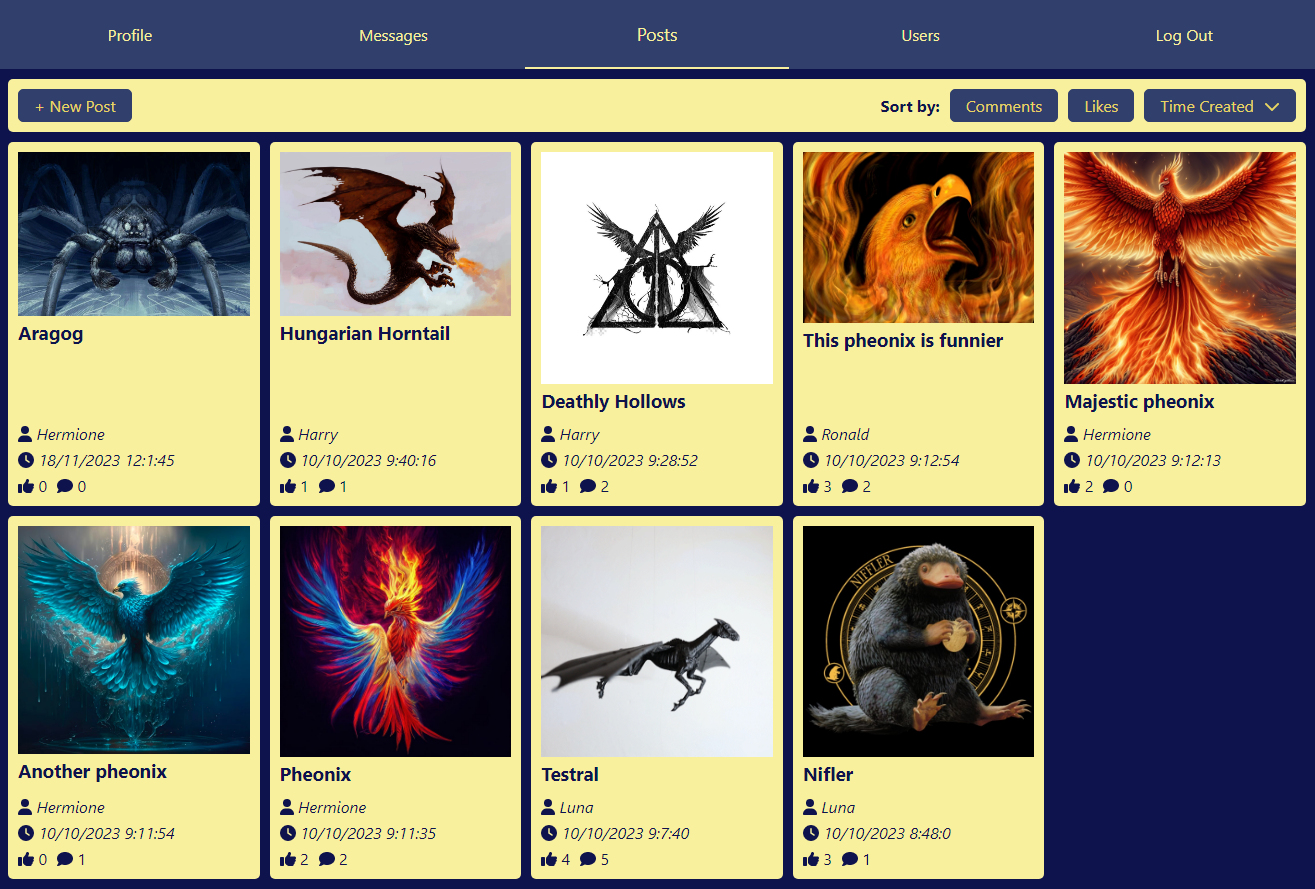
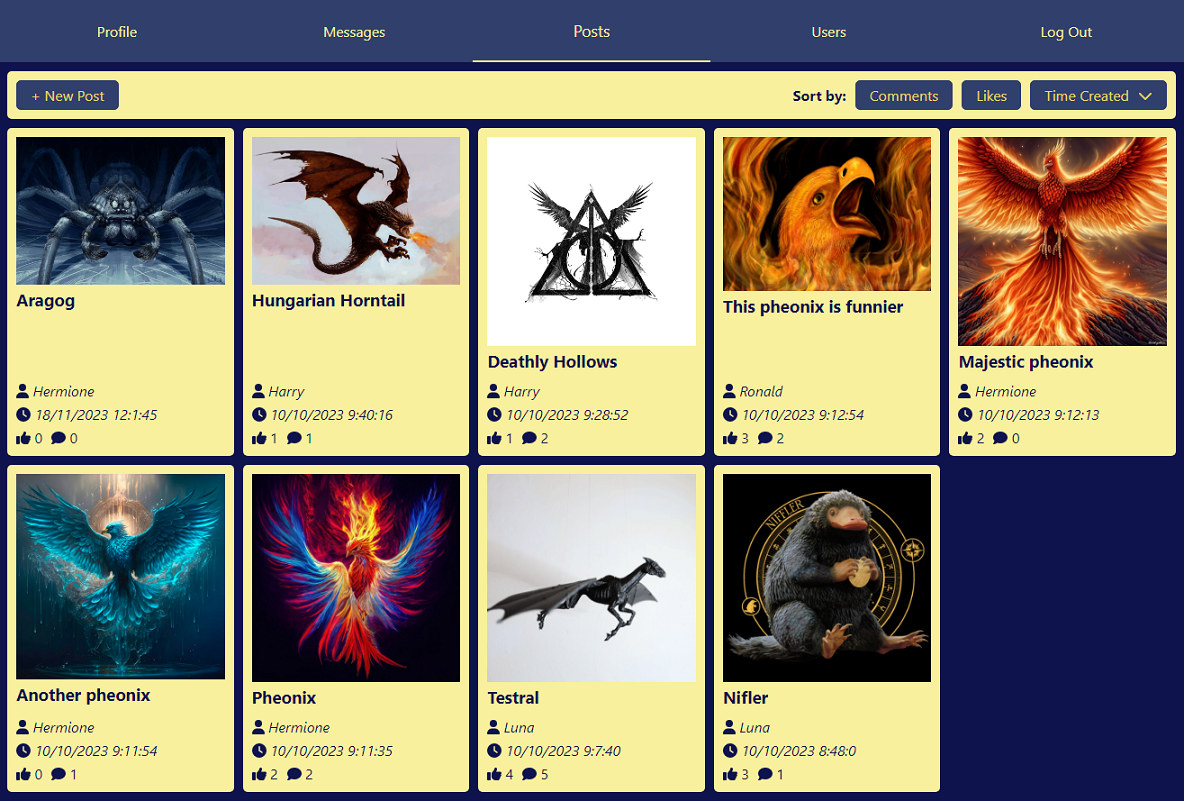
accesability and image size improved

diff --git a/src/pages/Portfolio.js b/src/pages/Portfolio.js
@@ -1,14 +1,14 @@
 import React, {useEffect} from 'react';
 import Technologies from "../components/Technologies";
-import socialScreen from "../images/sceenshots/social.PNG";
-import arenaScreen from "../images/sceenshots/arena.png";
+import socialScreen from "../images/sceenshots/social.jpg";
+import arenaScreen from "../images/sceenshots/arena.jpg";
 import clockScreen from "../images/sceenshots/clock.PNG";
-import calculatorScreen from "../images/sceenshots/calculator.PNG";
+import calculatorScreen from "../images/sceenshots/calculator.jpg";
 import drumsScreen from "../images/sceenshots/drums.PNG";
 import quotesScreen from "../images/sceenshots/quote.PNG";
 import markdownScreen from "../images/sceenshots/markdown.PNG";
-import oracleScreen from "../images/sceenshots/oracle.PNG";
-import regFoodScreen from "../images/sceenshots/ragfood.PNG";
+import oracleScreen from "../images/sceenshots/oracle.jpg";
+import regFoodScreen from "../images/sceenshots/ragfood.jpg";
 import { FontAwesomeIcon } from '@fortawesome/react-fontawesome';
 import { faGithub } from "@fortawesome/free-brands-svg-icons";
 import { faEye } from '@fortawesome/free-solid-svg-icons';
@@ -26,7 +26,7 @@ const Portfolio = () => {
                     <h2>Social Media App</h2>
                     <div className="project-about">
                         <div onClick={() => nav("/portfolio/social-media-app")}>
-                            <img className="project-img" src={socialScreen} alt=""/>
+                            <img className="project-img" src={socialScreen} alt="social media app screen"/>
                         </div>
                         <div>
                             <ul className="p-1">
@@ -54,7 +54,7 @@ const Portfolio = () => {
                 <div className="project-entry p-1">
                     <h2>Fight Arena Game</h2>
                     <div className="project-about">
-                        <div onClick={() => nav("/portfolio/arena")}><img className="project-img" src={arenaScreen} alt=""/></div>
+                        <div onClick={() => nav("/portfolio/arena")}><img className="project-img" src={arenaScreen} alt="fight arena app screen"/></div>
                         <div>
                             <ul className="p-1">
                                 <li>Registration / Login (validations, autologin, chosen fighter)</li>
@@ -82,7 +82,7 @@ const Portfolio = () => {
                     <h2>RegFood Website Clone</h2>
                     <div className="project-about">
                         <a href="https://ragfood-clone.vercel.app/">
-                            <img className="project-img" src={regFoodScreen} alt=""/>
+                            <img className="project-img" src={regFoodScreen} alt="Regfood screen"/>
                         </a>
                         <div>
                             <ul className="p-1">
@@ -90,7 +90,7 @@ const Portfolio = () => {
                                 <li>My first HTML/CSS assignment (JS added later)</li>
                                 <li>Full of details and animations</li>
                                 <li className="link-light">To see original
-                                    <a href="https://preview.themeforest.net/item/ragfood-restaurent-html-template/full_screen_preview/45638604?_ga=2.86321304.168419542.1700460621-1389662263.1700460621"> click here</a>
+                                    <a href="https://preview.themeforest.net/item/ragfood-restaurent-html-template/full_screen_preview/45638604?_ga=2.86321304.168419542.1700460621-1389662263.1700460621" alt="RegFood design website"> click here</a>
                                 </li>
                             </ul>
                         </div>
@@ -109,7 +109,7 @@ const Portfolio = () => {
                     <h2>The Oracle</h2>
                     <div className="project-about">
                         <a href="https://knowthetruth.vercel.app/">
-                            <img className="project-img" src={oracleScreen} alt=""/>
+                            <img className="project-img" src={oracleScreen} alt="Oracle Screen"/>
                         </a>
                         <div>
                             <ul className="p-1">
@@ -132,7 +132,7 @@ const Portfolio = () => {
                     <h2>25 + 5 Clock</h2>
                     <div className="project-about">
                         <a href="https://agnetasmergelyte.github.io/25plus5clock/">
-                            <img className="project-img" src={clockScreen} alt=""/>
+                            <img className="project-img" src={clockScreen} alt="25+5 clock screen"/>
                         </a>
                         <div>
                             <ul className="p-1">
@@ -157,7 +157,7 @@ const Portfolio = () => {
                     <h2>Markdown Previewer</h2>
                     <div className="project-about">
                         <a href="https://agnetasmergelyte.github.io/markdown-previewer/">
-                            <img  className="project-img" src={markdownScreen} alt=""/>
+                            <img  className="project-img" src={markdownScreen} alt="Markdown previewer screen"/>
                         </a>
                         <div>
                             <ul className="p-1">
@@ -182,7 +182,7 @@ const Portfolio = () => {
                     <h2>Random Quote Machine</h2>
                     <div className="project-about">
                         <a href="https://agnetasmergelyte.github.io/random-quote-machine/">
-                            <img className="project-img" src={quotesScreen} alt=""/>
+                            <img className="project-img" src={quotesScreen} alt="Random Quote Machine screen"/>
                         </a>
                         <div>
                             <ul className="p-1">
@@ -206,7 +206,7 @@ const Portfolio = () => {
                     <h2>Drum Machine</h2>
                     <div className="project-about">
                         <a href="https://agnetasmergelyte.github.io/drum-machine/">
-                            <img className="project-img" src={drumsScreen} alt=""/>
+                            <img className="project-img" src={drumsScreen} alt="Drum Machine screen"/>
                         </a>
                         <div>
                             <ul className="p-1">
@@ -229,7 +229,7 @@ const Portfolio = () => {
                     <h2>Calculator</h2>
                     <div className="project-about">
                         <a href="https://agnetasmergelyte.github.io/calculator/">
-                            <img className="project-img" src={calculatorScreen} alt=""/>
+                            <img className="project-img" src={calculatorScreen} alt="Calculator screen"/>
                         </a>
                         <div>
                             <ul className="p-1">

diff --git a/src/components/Technologies.js b/src/components/Technologies.js
@@ -1,21 +1,21 @@
 import React from 'react';
-import reactLogo from '../images/technologies/React.svg.png';
-import reactRouterLogo from '../images/technologies/react-router.png';
+import reactLogo from '../images/technologies/React.svg.svg';
+import reactRouterLogo from '../images/technologies/react-router.svg';
 import reduxLogo from '../images/technologies/redux.svg';
-import nodeLogo from '../images/technologies/Nodejs.png';
-import mongoDbLogo from '../images/technologies/Mongodb.svg.png';
-import htmlLogo from '../images/technologies/HTML5.svg.png';
-import cssLogo from '../images/technologies/CSS3.svg.png';
+import nodeLogo from '../images/technologies/Nodejs.svg';
+import mongoDbLogo from '../images/technologies/Mongodb.svg.svg';
+import htmlLogo from '../images/technologies/HTML5.svg.svg';
+import cssLogo from '../images/technologies/CSS3.svg.svg';
 import sassLogo from '../images/technologies/sass.svg';
 import jsLogo from '../images/technologies/JS.svg';
-import tsLogo from '../images/technologies/ts.png';
+import tsLogo from '../images/technologies/ts.svg';
 import viteLogo from '../images/technologies/vitejs.svg';
 import socketLogo from '../images/technologies/socket-io.png';
 import bootstrapLogo from '../images/technologies/bootstrap.svg';
-import expressJSLogo from '../images/technologies/express-js.png';
-import gitLogo from '../images/technologies/git.png';
-import npmLogo from '../images/technologies/npm.png';
-import tailwindLogo from '../images/technologies/tailwind.png';
+import expressJSLogo from '../images/technologies/express-js.svg';
+import gitLogo from '../images/technologies/git.svg';
+import npmLogo from '../images/technologies/npm.svg';
+import tailwindLogo from '../images/technologies/tailwind.svg';
 
 const technologies = {
     react: {name: "React", logo: reactLogo},
